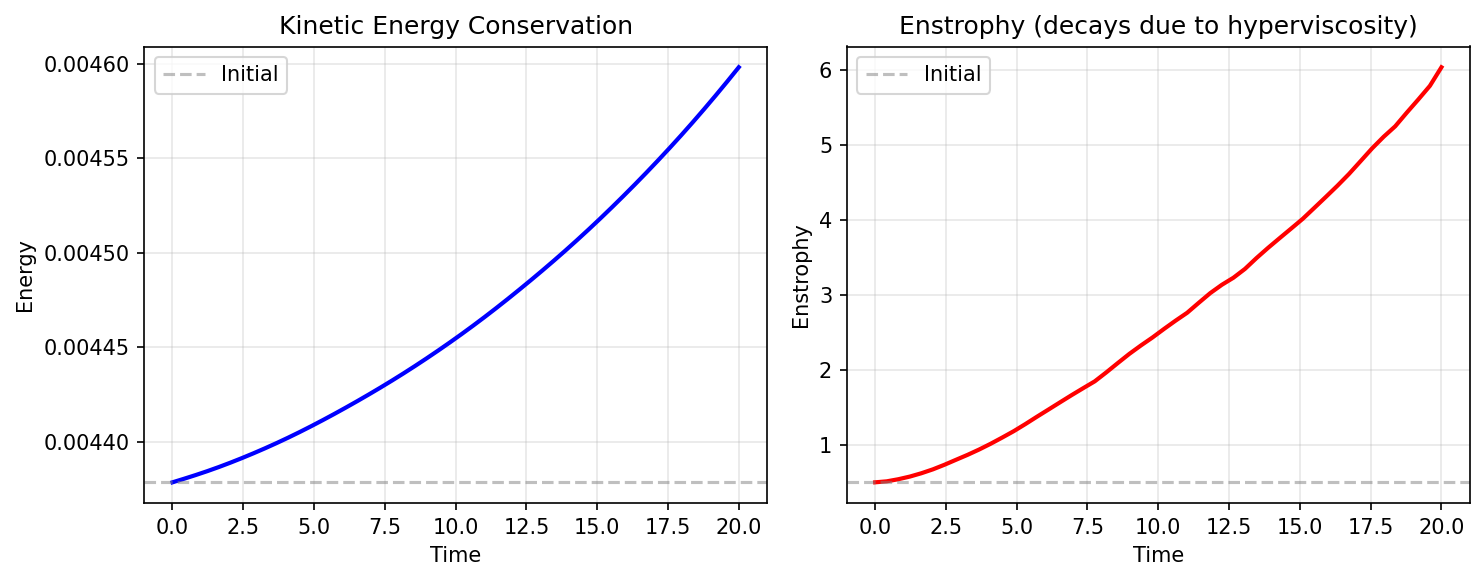
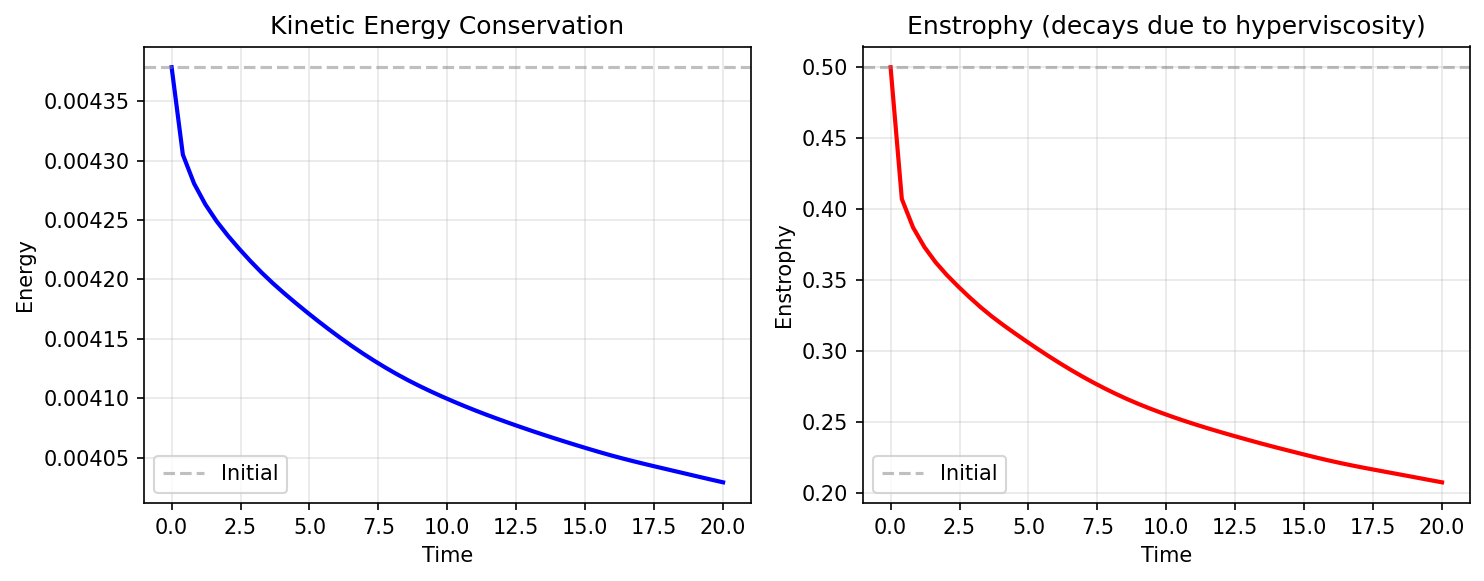
fix: correct hyperviscosity sign and tune parameters in pseudospectral_part2
The biharmonic hyperviscosity (nv=2) had the wrong sign: +nu*∇⁴q
amplifies modes instead of damping them. The general formula is
(-1)^(nv+1) * nu * (∇²)^nv q to ensure dissipation for any order.

Also switch to nv=4 (∇⁸) with nu=1e-12, which is more scale-selective
and produces physically correct diagnostics: energy decays slowly (~8%)
while enstrophy cascades forward and decays (~58%).

diff --git a/notebooks/pseudospectral_part2.py b/notebooks/pseudospectral_part2.py
@@ -78,7 +78,7 @@ class QGParams(NamedTuple):
     nv: int = 2            # hyperviscosity order (2=biharmonic)
 
 
-params = QGParams(nu=1e-8, mu=0.0, nv=2)
+params = QGParams(nu=1e-12, mu=0.0, nv=4)
 print(f"Hyperviscosity: nu={params.nu}, order={params.nv}")
 
 # %% [markdown]
@@ -204,12 +204,13 @@ def qg_tendency(q: jnp.ndarray, params: QGParams) -> jnp.ndarray:
     # Advection
     rhs = -deriv.advection_scalar(u, v, q)
 
-    # Hyperviscosity: nu * nabla^{2n} q
+    # Hyperviscosity: (-1)^{nv+1} * nu * nabla^{2nv} q
+    # Sign ensures dissipation: nv=1 → +nu*∇²q, nv=2 → -nu*∇⁴q, etc.
     if params.nu > 0:
         lap_q = q
         for _ in range(params.nv):
             lap_q = deriv.laplacian(lap_q)
-        rhs = rhs + params.nu * lap_q
+        rhs = rhs + (-1) ** (params.nv + 1) * params.nu * lap_q
 
     # Linear drag
     if params.mu > 0:
